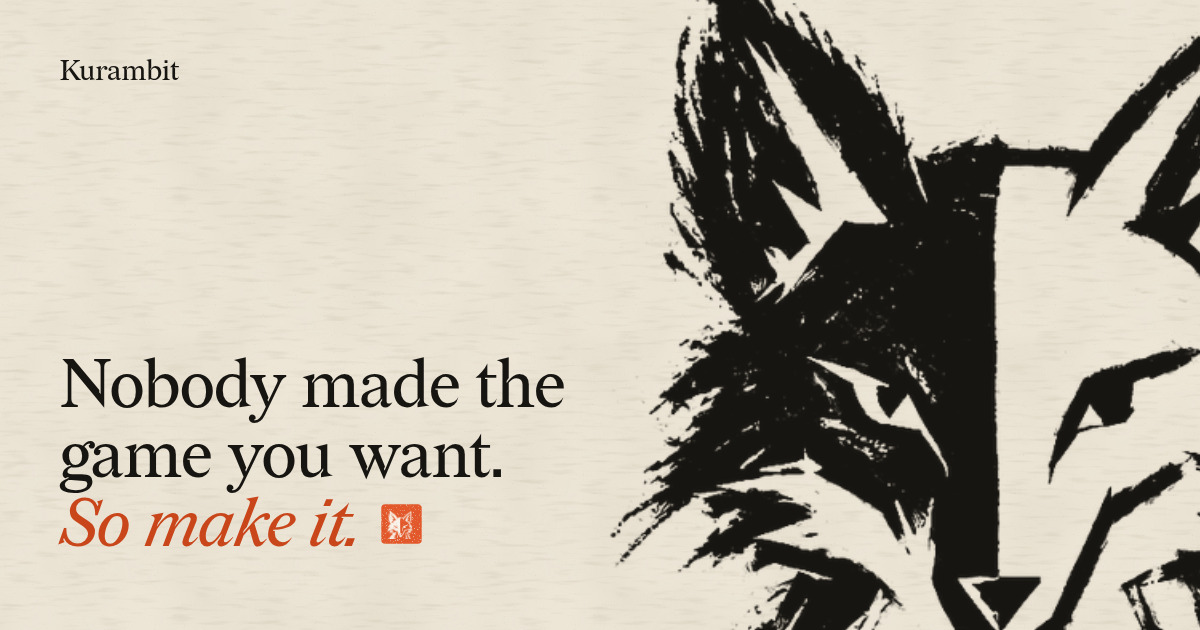
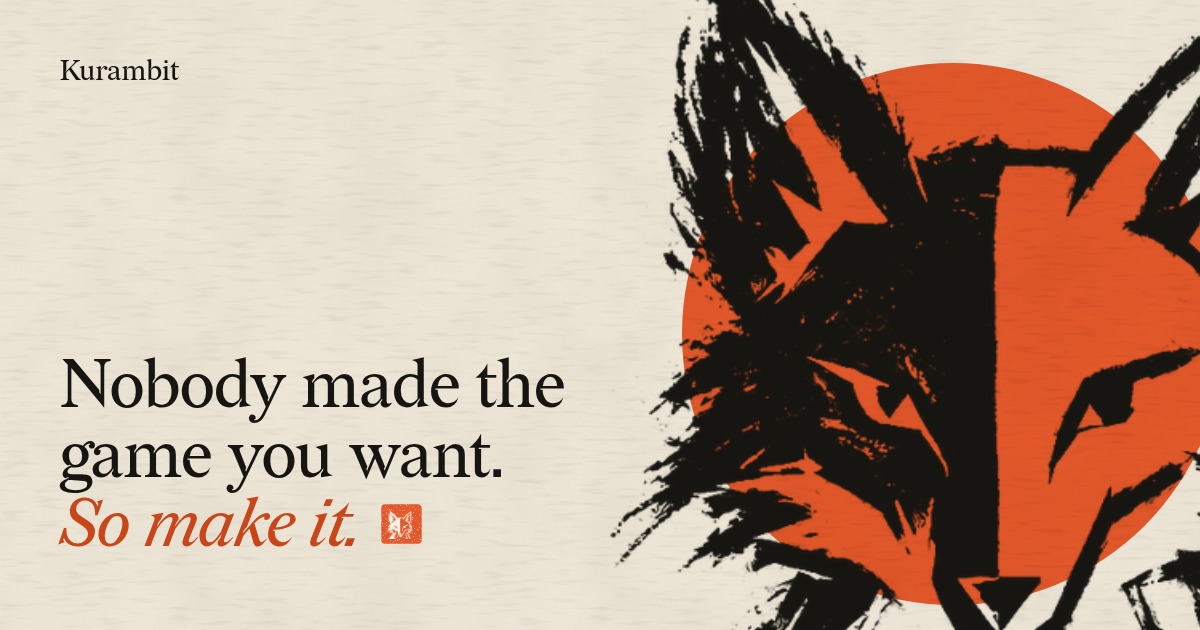
feat(marketing): the link card's fox stands in front of a vermilion sun

diff --git a/apps/marketing/site/index.html b/apps/marketing/site/index.html
@@ -19,18 +19,18 @@
       content="Describe a game. Your coding agent builds it, Kurambit plays every build, and only what gets better is kept. Open source."
     />
     <!-- Bump ?v= with every new card: link previews cache by URL. -->
-    <meta property="og:image" content="https://kurambit.com/og.png?v=7" />
+    <meta property="og:image" content="https://kurambit.com/og.png?v=8" />
     <meta property="og:image:width" content="1200" />
     <meta property="og:image:height" content="630" />
     <meta
       property="og:image:alt"
-      content="Nobody made the game you want. So make it. Beside the words, the Kurambit fox's face drawn large in black brush ink on washi paper."
+      content="Nobody made the game you want. So make it. Beside the words, the Kurambit fox's face drawn large in black brush ink over a vermilion sun, on washi paper."
     />
     <meta property="og:url" content="https://kurambit.com/" />
     <meta name="twitter:card" content="summary_large_image" />
     <meta
       name="twitter:image:alt"
-      content="Nobody made the game you want. So make it. Beside the words, the Kurambit fox's face drawn large in black brush ink on washi paper."
+      content="Nobody made the game you want. So make it. Beside the words, the Kurambit fox's face drawn large in black brush ink over a vermilion sun, on washi paper."
     />
     <!-- For search engines and answer engines; the FAQ entries must match the page's own FAQ. -->
     <script type="application/ld+json">
@@ -65,7 +65,7 @@
             "operatingSystem": "Linux",
             "license": "https://opensource.org/licenses/MIT",
             "isAccessibleForFree": true,
-            "image": "https://kurambit.com/og.png?v=7",
+            "image": "https://kurambit.com/og.png?v=8",
             "publisher": {
               "@id": "https://kurambit.com/#org"
             }

diff --git a/apps/marketing/brand/src/og.html b/apps/marketing/brand/src/og.html
@@ -5,12 +5,11 @@
     <title>Kurambit link card</title>
     <link rel="stylesheet" href="kit.css" />
     <style>
-      /* The link card: the fox's face, drawn in ink and cropped large, beside
-         the headline, signed with a vermilion seal the way a print is.
-         sun=1 sets a vermilion sun behind the fox. */
+      /* The link card: the fox's face, drawn in ink and cropped large over a
+         vermilion sun, beside the headline, signed with a vermilion seal the
+         way a print is. */
       .sun {
         position: absolute;
-        display: none;
         right: calc(var(--w) * -0.02);
         top: calc(var(--h) * 0.1);
         width: calc(var(--h) * 0.86);
@@ -20,10 +19,6 @@
           url("../../site/washi.svg") 0 0 / 420px 420px,
           var(--shu);
         background-blend-mode: multiply;
-      }
-
-      [data-sun] .sun {
-        display: block;
       }
 
       .face {

diff --git a/apps/marketing/BRAND.md b/apps/marketing/BRAND.md
@@ -121,9 +121,8 @@ shelf template draws the headers and banners, and og.html the link card.
 | [github](brand/github)       | Repository social preview                      | 1280×640             |
 | [web](brand/web)             | The link card                                  | 1200×630             |
 
-The link card is the fox's face, drawn in brush ink and cropped large, beside the headline, signed
-with a small vermilion seal the way a woodblock print is. `web/og-sun.jpg` sets a vermilion sun
-behind the fox for places that need more colour.
+The link card is the fox's face, drawn in brush ink and cropped large over a vermilion sun, beside
+the headline, signed with a small vermilion seal the way a woodblock print is.
 
 Use the **seal** avatar everywhere a picture is cropped round: vermilion is the one colour that
 stands out in a feed. Pair it with the paper X header. The posts run in order: make, tell, played,
